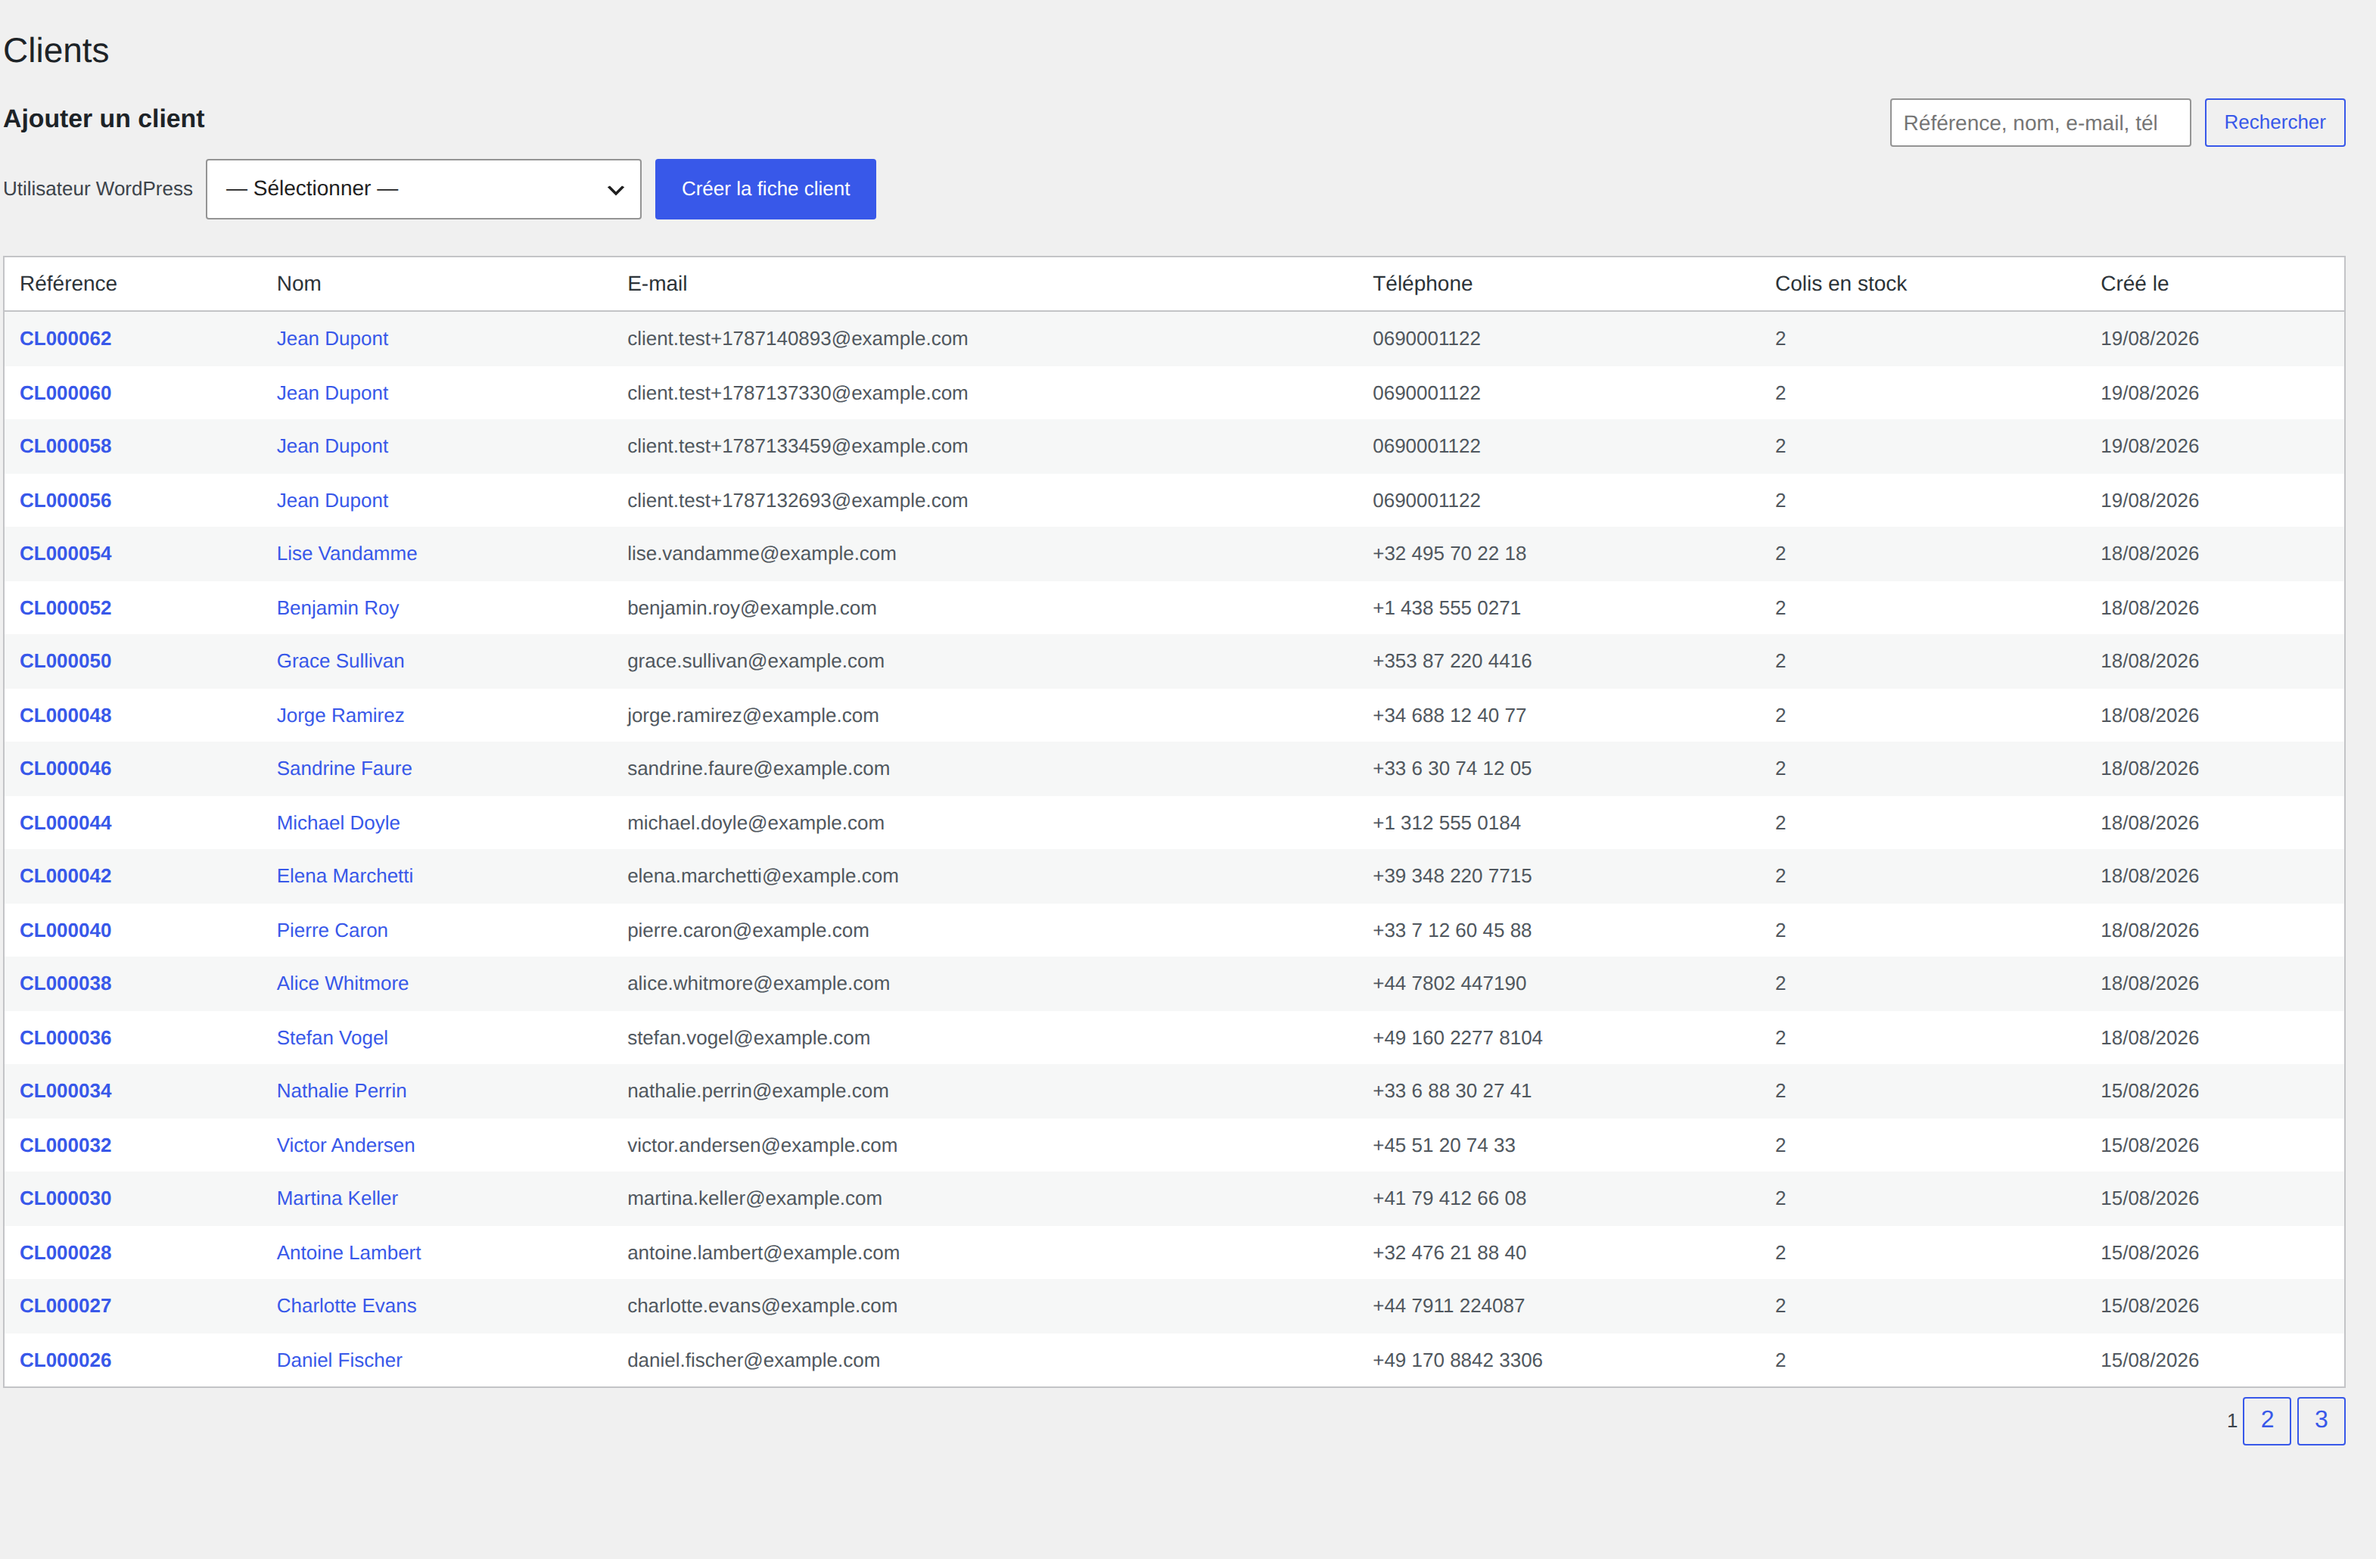
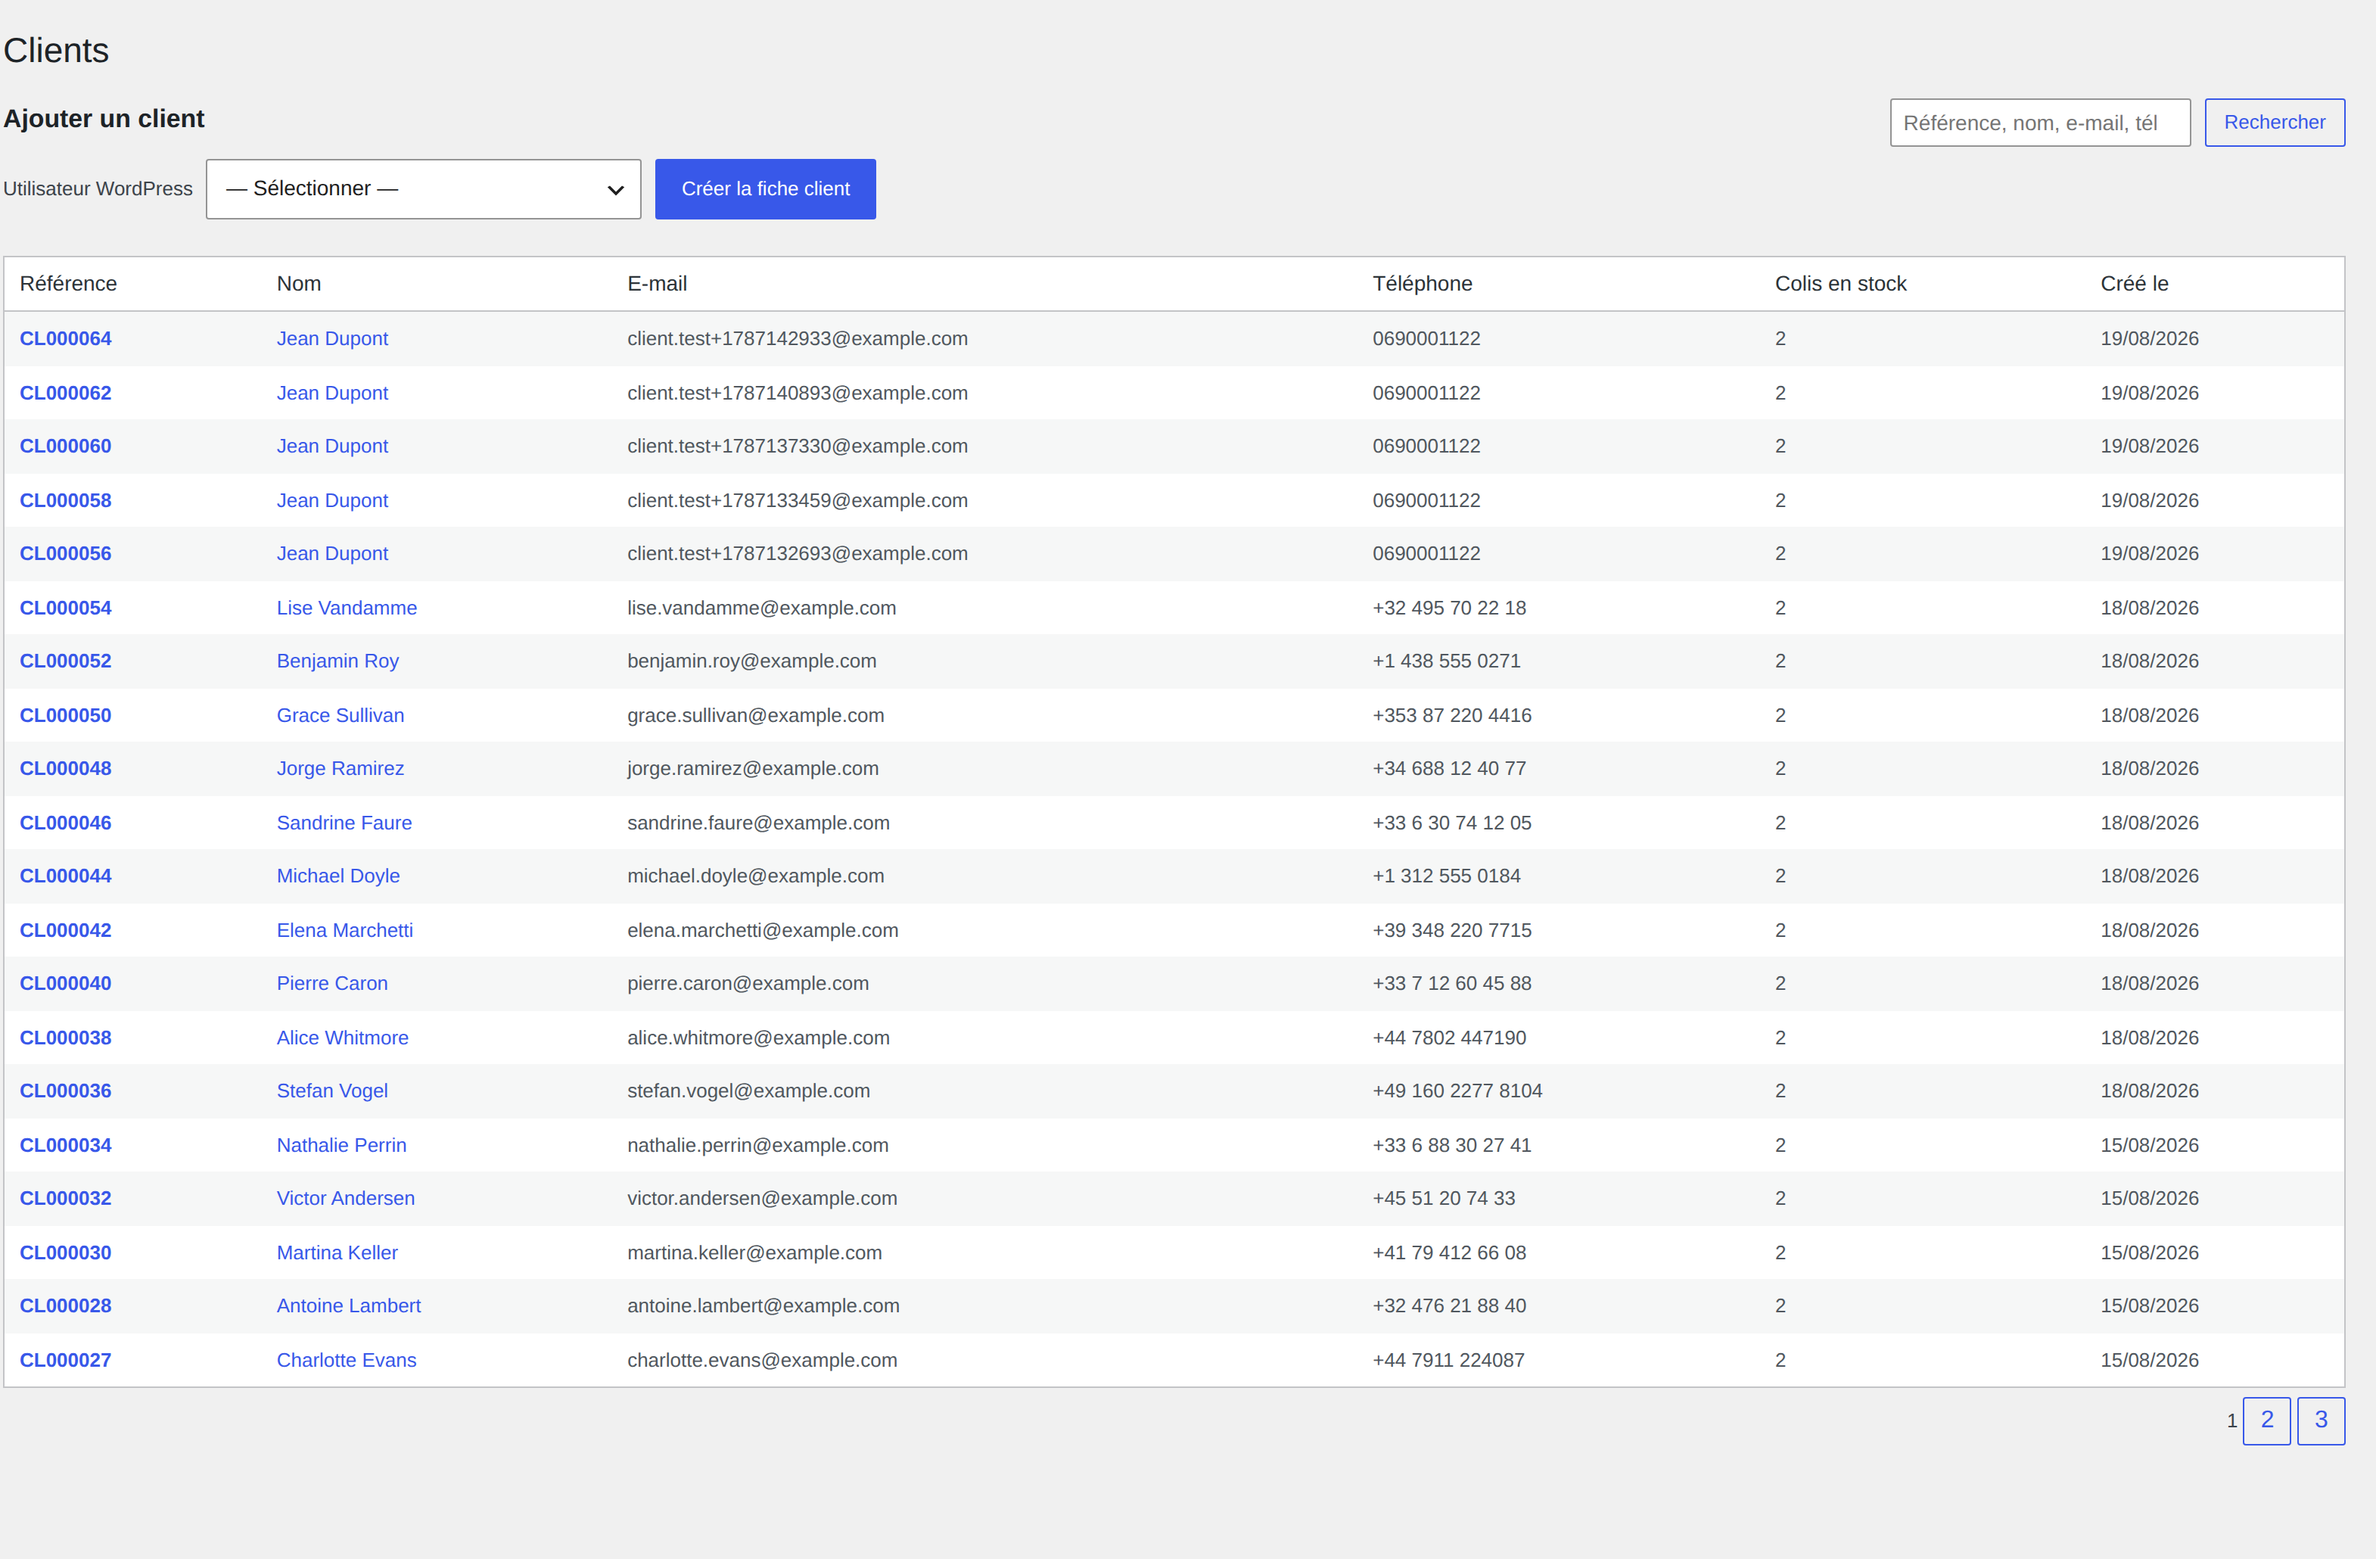
Give the tracking column a floor, and show the customer list in context
Allowing the tracking cells to break made the column collapse to 57px, so
the header wrapped onto five lines and every tracking number was chopped
into fragments. A 6em floor keeps it readable; measured against a 680px
account column the table then asks for 712px, so 32px scroll remains rather
than the original 221px.

Six readable columns do not fit a 680px account column at any setting: every
floor value pushes the table past it. Measured across the three bundled
themes, the column is 680px in all of them.

The article screenshot therefore shows the phone view, where WooCommerce
stacks the table into labelled rows, and now keeps the "Mes colis" heading,
the client reference and three parcels so the screen is recognisable as a
list. The previous crop showed neither heading nor separation and read as a
single record.

Claude-Session: https://claude.ai/code/session_01F7Ke6fBcJ1en5UuMDEKfSo

diff --git a/colisly/assets/css/front.css b/colisly/assets/css/front.css
@@ -9,6 +9,7 @@
    column. Only this one is allowed to break: applying it to every cell would
    chop up dates and references too. */
 .colisly-front-table .colisly-col-tracking {
+	min-width: 6em;
 	overflow-wrap: anywhere;
 }
 

diff --git a/article/reexpedition-colis-woocommerce.md b/article/reexpedition-colis-woocommerce.md
@@ -128,8 +128,8 @@ Le client doit voir ses colis, leurs dates de réception, leurs numéros de suiv
 [/pf_highlight]
 
 > 🖼 **IMAGE 5** — Fichier : `images/espace-client.png`
-> **Alt :** suivi de colis sur mobile depuis le compte client WooCommerce
-> **Légende :** Sur mobile, chaque colis se lit champ par champ. Le client ne voit jamais vos notes internes.
+> **Alt :** liste des colis d'un client sur mobile, dans son compte WooCommerce
+> **Légende :** Depuis son téléphone, le client retrouve tous ses colis avec leur statut. Vos notes internes, elles, ne lui sont jamais montrées.
 
 Un espace client bien fait produit un effet immédiat. Les questions « où en est mon colis » s'effondrent. Votre équipe récupère alors du temps pour l'entrepôt.
 
